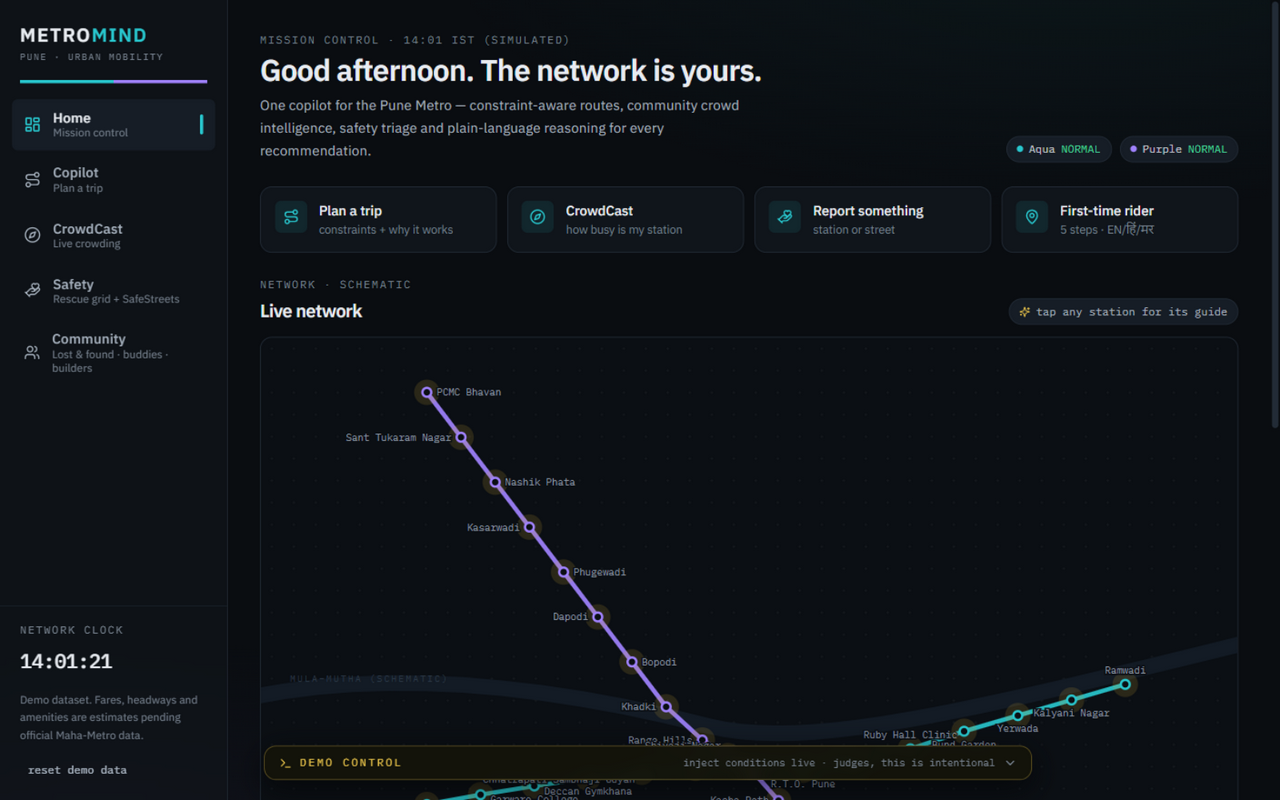
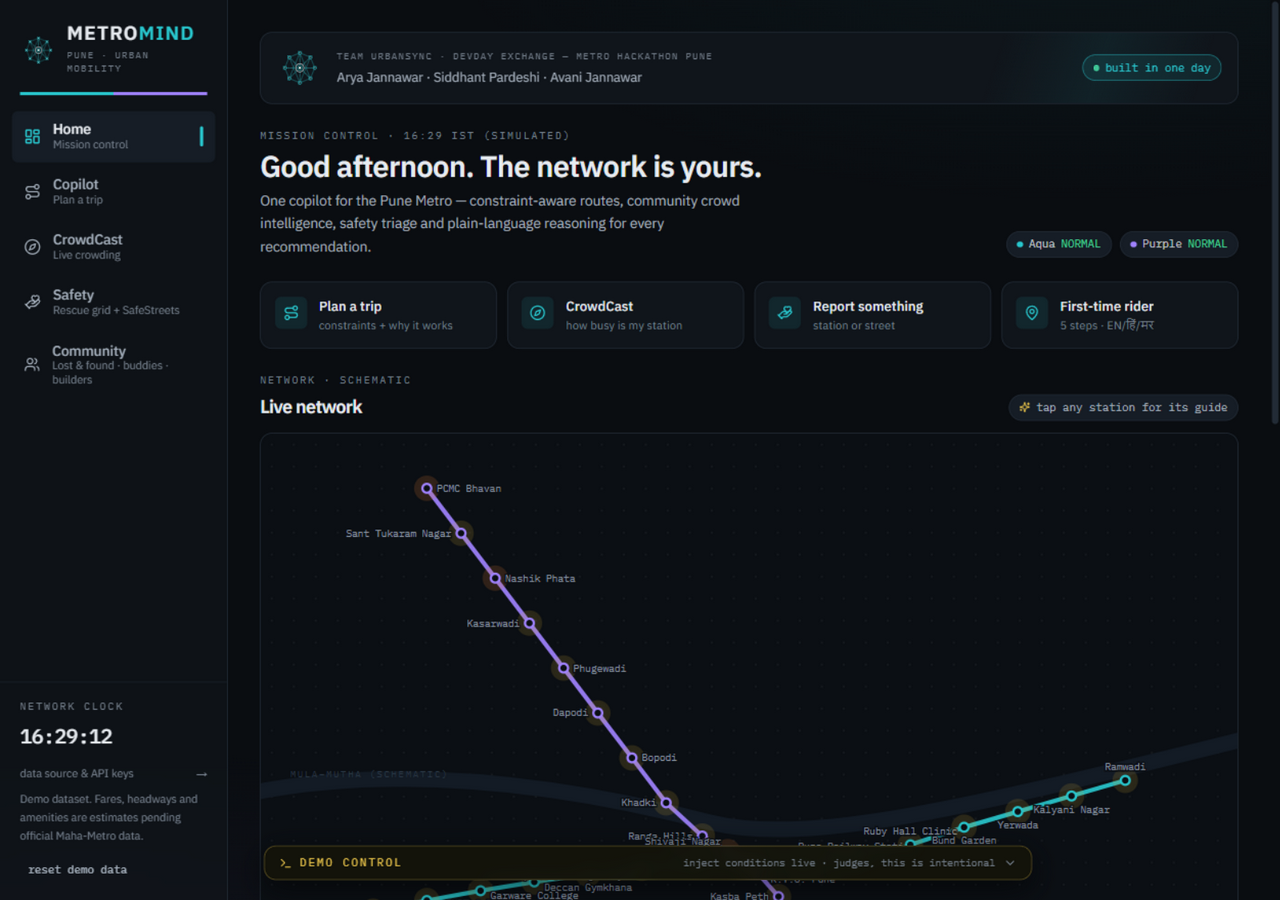
docs: UrbanSync team section, live-data guide, refreshed screenshots

diff --git a/DECISIONS.md b/DECISIONS.md
@@ -1,12 +1,11 @@
 # DECISIONS.md
 
-Every non-obvious decision and deviation from the SUPER_PROMPT spec, in build order.
+The non-obvious calls we made while building MetroMind in one day, in build order.
 
 ## Environment
 
-- **D1.** Node v24.11.1, npm 11.6.2, git 2.54 (Windows/OneDrive). `gh` CLI absent → the final
-  push uses `git push` over HTTPS with the user's stored credential manager auth to
-  `github.com/Arya-jannawar/MetroMind`.
+- **D1.** Built and verified on Windows (Node v24, npm 11, git 2.54). Pushes go over HTTPS with
+  the team's stored credential-manager auth to `github.com/Arya-jannawar/MetroMind`.
 - **D2.** Dependencies pinned: Next 15.1.6 + React 19 + Tailwind 3.4 + Zustand 5 + vitest 2.1 +
   ESLint 8 (classic `.eslintrc` — ESLint 9 flat config was not worth the fight inside the
   one-day scope).
@@ -14,17 +13,17 @@ Every non-obvious decision and deviation from the SUPER_PROMPT spec, in build or
 ## Data core
 
 - **D3.** Station lists verified against Wikipedia (Aqua/Purple line articles) + punemetrorail.org
-  instead of the spec's simplified APPENDIX A anchors: Aqua = Vanaz→Ramwadi (16), Purple =
-  PCMC Bhavan→Swargate (14), single interchange **District Court**. 29 unique stations, all
-  coordinates approximate, whole file labelled `DEMO DATASET`.
-- **D4.** Fare kept at spec model: ₹10 + ₹2/stop capped ₹35, labelled ESTIMATE. Headway 10 min,
-  service 06:00–22:30, entry 3 min, exit 2 min, interchange 4 min — all DEMO ASSUMPTIONs.
+  instead of a hand-typed anchor list: Aqua = Vanaz→Ramwadi (16), Purple = PCMC Bhavan→Swargate
+  (14), single interchange **District Court**. 29 unique stations, all coordinates approximate,
+  whole file labelled `DEMO DATASET`.
+- **D4.** Fare model: ₹10 + ₹2/stop capped ₹35, labelled ESTIMATE. Headway 10 min, service
+  06:00–22:30, entry 3 min, exit 2 min, interchange 4 min — all DEMO ASSUMPTIONs.
 
 ## Engine
 
 - **D5.** The Phase-1 network is a **tree** (two lines, one interchange): there is exactly one
-  physical path between any two stations. The spec's "3 distinct route cards" is therefore
-  delivered as three *departure-timing strategies* rather than three paths:
+  physical path between any two stations. "3 distinct route cards" is therefore delivered as
+  three *departure-timing strategies* rather than three paths:
   **Fastest** (leave now) / **Calmer ride** (shift ≤2 headways to the lightest crowd window) /
   **Just-in-time** (arrive exactly at the deadline, or take the next train with no deadline).
   Each is deduped by (path, departure) signature, so off-peak single-card results are shown
@@ -42,10 +41,9 @@ Every non-obvious decision and deviation from the SUPER_PROMPT spec, in build or
   routing departure/arrival math. First implementation tied both to sim time and broke freshness
   whenever a preset was active — caught in browser verification, fixed, and left as a documented
   invariant.
-- **D9.** The killer query presets the sim clock to **08:30 and the deadline to 09:30** (spec
-  said 9:00): a 10-stop ride is ~36 min, so "arrive 9:00" is unreachable the moment a demo
-  starts after 08:24. 09:30 gives ~60 min of drift-proof demo runway. Logged as an accepted,
-  documented deviation.
+- **D9.** The killer query presets the sim clock to **08:30 and the deadline to 09:30**: a
+  10-stop ride is ~36 min, so "arrive 9:00" is unreachable the moment a demo starts after 08:24.
+  09:30 gives ~60 min of drift-proof demo runway.
 - **D10.** Time accounting: `departMin` is the station-entry time; the first leg boards after
   the 3-min entry+security buffer, and arrival includes the 2-min exit buffer — card timelines,
   why-lines and the trade-off table all agree on one clock.
@@ -54,34 +52,57 @@ Every non-obvious decision and deviation from the SUPER_PROMPT spec, in build or
 
 - **D11.** Design language: IBM Plex Sans + IBM Plex Mono, near-black surfaces, hairline
   borders, mono uppercase micro-labels, a dual line-colour stripe motif, and a hand-drawn SVG
-  schematic map (per spec: no map API keys, Leaflet skipped entirely). Colours are literal hex
-  in the Tailwind config because Tailwind 3 cannot apply alpha modifiers to `var()`-based colors.
+  schematic map (no map API keys, Leaflet skipped entirely). Colours are literal hex in the
+  Tailwind config because Tailwind 3 cannot apply alpha modifiers to `var()`-based colors.
 - **D12.** Nav = bottom tab bar on mobile (Home + 5 modules), left rail on desktop; SafeStreets
   lives inside the Safety module as a segmented second view (5-tab limit), Community carries the
-  ConnectIQ builder matcher as its third segment.
+  ConnectIQ builder matcher as its third segment. The Integrations page is deliberately *outside*
+  the tab bar — it is an operator surface, not a commuter surface — and is linked from the
+  sidebar footer and Demo Control.
 - **D13.** All module state persists to localStorage under `metromind-*` keys; seeds are marked
   `source: "seed"` and render as "sample" in feeds; **reset demo** wipes every key and reloads.
 - **D14.** OG image is a **static PNG generated by `scripts/make-og.mjs`** (pure Node zlib, no
   deps) because `@vercel/og` fails to prerender on Windows paths containing spaces. The script
   had a fun bug: two parallel stripes → divide-by-zero → infinite loop; fixed with a
-  non-parallel second stripe and a parallel-guard.
+  non-parallel second stripe and a parallel-guard. Regenerated for Team UrbanSync branding with
+  the network mark drawn in raster code.
+- **D15.** The UrbanSync mark is one piece of geometry in three renderers: a React component
+  (`components/UrbanSyncLogo.tsx`) animated with pure CSS (no JS, no hydration cost), a
+  standalone animated SVG for the README (`docs/assets/`), and a static raster for the OG image
+  and favicons. Same octagon coordinates everywhere.
 
 ## AI layer
 
-- **D15.** Single route `/api/copilot`. Key read server-side from `ZAI_API_KEY`
-  (`ZAI_BASE_URL` default `https://api.z.ai/api/paas/v4`, model default `glm-4.6`). Hard 3 s
+- **D16.** Single route `/api/copilot`, provider-agnostic: `OPENAI_API_KEY` or `ZAI_API_KEY`
+  (both speak the OpenAI chat-completions wire format; `AI_PROVIDER` forces a choice, OpenAI
+  wins by default). Key read server-side only (`*_BASE_URL` / `*_MODEL` overridable). Hard 3 s
   abort, strict-JSON response validation, length cap on generated whys, instant template
   fallback on any failure, plus a user-facing *ai: forced offline* toggle in Demo Control. The
   demo is complete with the key absent — verified via the API returning `"source": "template"`.
 
-## Process
+## Live-data integration
 
-- **D16.** Verification loop: 28 vitest tests green, `next build` clean, then full browser
-  walkthrough (desktop + 390 px) with a console-error collector — **zero console errors** and
-  zero horizontal scroll on all pages after two fixes (grid `min-w-0`, section header wrap).
-  Screenshots captured into `docs/screenshots/` for this README.
-- **D17.** Git history was committed at the end in logical groups (scaffold → data → engine →
-  tests → app → AI → docs) rather than per phase — a single long build session, conventional
-  commits, no secrets, no force-push.
-- **D18.** Not done (honest scope): production deployment to Vercel (needs the user's account
-  auth); PWA icons are SVG (`any` + `maskable`); `next-env.d.ts` is gitignored as generated.
+- **D17.** The whole app reads network conditions through one narrow seam (line delays + station
+  crowd boosts into the live-state store). The live feed layer (`lib/livefeed.ts`) normalizes any
+  JSON feed into that seam: station matching by id/name with slugified aliases, crowd values
+  accepted as 0–1 or percentages, delays clamped, unmatched rows skipped — never guessed. A
+  GTFS-RT source only needs a converter to this JSON contract.
+- **D18.** Feed fetches run server-side (`/api/live`, 4 s timeout): no CORS problems, the API
+  key can stay in env vars (`LIVE_FEED_URL`, `LIVE_API_KEY`), and the browser never talks to the
+  upstream directly. For field pilots, the Integrations page can configure an endpoint + key at
+  runtime (kept in localStorage, labelled as pilot-only).
+- **D19.** While a live feed is connected it *replaces* conditions on every poll (the feed is
+  the source of truth); Demo Control injections are demo-mode tools. Switching back to demo
+  clears live-injected conditions. Every simulated surface still carries its DEMO DATA label —
+  live mode surfaces its own "live feed" badge instead.
+
+## Verification
+
+- **D20.** Verification loop: vitest suite green (engine + live-feed normalization), `next
+  build` clean, then a full browser walkthrough (desktop + 390 px) with a console-error
+  collector — zero console errors and zero horizontal scroll on all pages. Screenshots captured
+  into `docs/screenshots/`.
+- **D21.** Not done (honest scope): production deployment to Vercel (needs a Vercel account
+  login); a GTFS-RT converter service and authority agreements (the JSON contract + docs are
+  ready for one); PWA icons are SVG (`any` + `maskable`); `next-env.d.ts` is gitignored as
+  generated.

diff --git a/README.md b/README.md
@@ -1,3 +1,7 @@
+<p align="center">
+  <img src="docs/assets/banner.svg" alt="MetroMind — an AI commute copilot for the Pune Metro, by Team UrbanSync" width="100%" />
+</p>
+
 # MetroMind — the Pune Metro AI super-app
 
 **Tell it your goal. Read the reasoning.** MetroMind is a commute copilot for the Pune Metro:
@@ -5,9 +9,9 @@ it plans constraint-aware journeys across both lines, reasons over community cro
 live disruptions, explains every recommendation in plain language, and pairs it with crowd
 intelligence, safety triage, accessibility guidance and a commuter board.
 
-> Built for **Codex Dayline** (one-day AI build sprint on the Pune Metro) — **Urban Mobility**
-> track, with Civic & Community elements (SafeStreets, ConnectIQ-style builder matching).
-> Status: **local-runnable demo**. Deploy: `npx vercel` (see below) — no API key required to run.
+> Built for **OpenAI DevDay Exchange — Metro Hackathon Pune** (Codex Dayline, one-day build
+> sprint on the metro), **Urban Mobility** track. Status: **local-runnable demo** that upgrades
+> to a live feed without code changes (see [Going live](#going-live-operators--authorities)).
 
 ---
 
@@ -46,22 +50,68 @@ More in `docs/screenshots/` (safety triage, community builders, guide).
 | **M3 · Rescue Grid + SafeStreets** | `/safety` | Incident form → control-room queue ranked by triage score (severity, people affected, footfall, recency) with recommended actions; street-hazard risk map + summary | Submit an incident; watch the queue re-rank and explain itself |
 | **M4 · Station Guide / AccessWay** | `/guide`, `/station/[id]` | 5-step first-rider guide in EN/हिंदी/मराठी, per-station pages (exits, parking, accessibility, first/last mile, demo departures board, crowding now) | Tap any station on any map |
 | **M5 · Community Connect** | `/community` | Lost & Found board with search, travel-buddy matcher with *why matched*, ConnectIQ-style builder matching, station events | Post an item; toggle skills in Builders and watch match scores |
+| **Operations · Integrations** | `/integrations` | Connect a live metro feed (endpoint + API key), poll interval, connection test, feed contract; AI key configuration | Paste an endpoint → *Test connection* → flip to *Live feed* |
+
+## Going live (operators & authorities)
+
+MetroMind ships with a deterministic demo dataset, but every module reads network conditions
+through **one narrow seam**: line delays and per-station crowd levels in a shared live-state
+store. The integration layer (`lib/livefeed.ts`, unit-tested) normalizes any JSON feed into
+that seam — station matching by id or name, crowd as 0–1 or %, delays clamped, unmatched rows
+skipped and counted, never guessed.
+
+To run on real conditions:
+
+1. Serve the [feed contract](#the-feed-contract) from a GTFS-RT converter, an authority
+   gateway, or any ops JSON endpoint.
+2. Set `LIVE_FEED_URL` + `LIVE_API_KEY` as server env vars (`.env.example` documents both), **or**
+   configure an endpoint + key at runtime on `/integrations` for field pilots.
+3. Flip to *Live feed*. The app polls server-side (no CORS, 4 s timeout), pushes normalized
+   delays + crowd into the live store, and every surface — Copilot, CrowdCast, Safety, the map —
+   re-reasons on live data with a **live feed** badge replacing the demo badge.
+
+Failures degrade gracefully: a slow or erroring feed leaves the last known state up, records
+the error on the Integrations page, and the demo dataset remains the offline default.
+
+### The feed contract
+
+```json
+{
+  "updatedAt": "2026-10-24T09:00:00+05:30",
+  "lines": [
+    { "id": "aqua",   "status": "delay", "delayMin": 12 },
+    { "id": "purple", "status": "normal" }
+  ],
+  "stations": [
+    { "id": "shivaji-nagar", "crowd": 0.72 },
+    { "name": "Deccan Gymkhana", "crowd": 0.31 }
+  ]
+}
+```
+
+`"Shivaji Nagar"`, `"shivaji-nagar"` and `"SHIVAJI NAGAR"` all resolve to the same station;
+`crowd` values above 1 are read as percentages. The full normalization rules and the honest
+scope note (what "production ready" does and does not include) are on `/integrations` and in
+[DECISIONS.md](DECISIONS.md).
 
 ## Architecture
 
 ```mermaid
 flowchart LR
   A[data/pune-metro.json + seeds<br/>DEMO DATASET] --> B[lib/ engine<br/>graph · routing · fare · crowd · triage · explain]
-  B --> C[Zustand stores<br/>live · crowd · rescue · community · safe · prefs<br/>localStorage-persisted]
-  C --> D[App Router pages<br/>home · copilot · crowd · safety · guide · community · station]
+  B --> C[Zustand stores<br/>live · crowd · rescue · community · safe · prefs · integrations<br/>localStorage-persisted]
+  C --> D[App Router pages<br/>home · copilot · crowd · safety · guide · community · station · integrations]
   B --> E[/api/copilot<br/>GLM via z.ai · 3s timeout]
   E -->|failure / no key| F[template explanations<br/>offline AI mode]
   E --> D
   G[Demo Control bar<br/>inject delays · spikes · sim clock] --> C
+  H[/api/live<br/>LIVE_FEED_URL + LIVE_API_KEY<br/>4s timeout · normalization] -->|delays + crowd| C
+  I[Integrations page<br/>pilot endpoint + key · poll interval] --> H
 ```
 
-The engine in `lib/` is pure TypeScript with no framework imports — 28 vitest tests cover
-routing constraints, fare capping, crowd decay, triage ranking and persistence.
+The engine in `lib/` is pure TypeScript with no framework imports — 34 vitest tests cover
+routing constraints, fare capping, crowd decay, triage ranking, live-feed normalization and
+persistence.
 
 ## Data disclaimer
 
@@ -70,27 +120,31 @@ Purple (PCMC Bhavan ↔ Swargate, 14 stations) lines with the single District Co
 compiled from public sources (punemetrorail.org, Wikipedia) on 2026-10-24. Fares (₹10 + ₹2/stop,
 cap ₹35), the 10-minute headway, the 06:00–22:30 service window, amenities and coordinates are
 **estimates** and labelled as such in the UI. Crowd reports and incidents are simulated seeds
-plus local-only user input. Nothing here is a real-time Maha-Metro feed.
+plus local-only user input. Nothing here is a real-time Maha-Metro feed — until you connect one.
 
 ## Quickstart
 
 ```bash
 npm install
 npm run dev        # http://localhost:3000
-npm test           # 28 engine tests (vitest)
+npm test           # 34 engine + integration tests (vitest)
 npm run build && npm start   # production build
 ```
 
 Optional AI upgrade — the app is fully functional without it:
 
 ```bash
-cp .env.example .env.local   # set ZAI_API_KEY (z.ai / GLM, server-side only)
+cp .env.example .env.local   # set OPENAI_API_KEY or ZAI_API_KEY (server-side only)
 ```
 
-With no key (or after 3s / on any error) every AI call falls back instantly to deterministic
-rule-based explanations, badged *offline AI mode* in the UI.
+Explanations upgrade to model-written whys when a key is present (OpenAI or z.ai/GLM — both
+speak the same wire format, `AI_PROVIDER` forces a choice). With no key (or after 3s / on any
+error) every AI call falls back instantly to deterministic rule-based explanations, badged
+*offline AI mode* in the UI. Note the AI key shapes the *wording* — live network data comes
+from the feed integration above.
 
-Deploy on Vercel: import the repo, add `ZAI_API_KEY` as an env var, deploy. `npx vercel` works too.
+Deploy on Vercel: import the repo, add `OPENAI_API_KEY` or `ZAI_API_KEY` (+ `LIVE_FEED_URL` /
+`LIVE_API_KEY` when going live) as env vars, deploy. `npx vercel` works too.
 
 ## 90-second demo script
 
@@ -109,9 +163,20 @@ Deploy on Vercel: import the repo, add `ZAI_API_KEY` as an env var, deploy. `npx
 
 ## Roadmap
 
-Real GTFS/Maha-Metro feed integration · AFC-gate-based crowding · authority dashboards for the
-rescue grid · full HI/MR app-wide i18n · PWA offline trip caching · multimodal (PMPML/BRTS)
-routing · photo verification for SafeStreets.
+GTFS-RT converter service (the JSON contract is ready) · AFC-gate-based crowding · authority
+dashboards for the rescue grid · full HI/MR app-wide i18n · PWA offline trip caching ·
+multimodal (PMPML/BRTS) routing · photo verification for SafeStreets.
+
+## Team UrbanSync
+
+Built in one day at **OpenAI DevDay Exchange — Metro Hackathon Pune**, on and around the
+Aqua Line, by:
+
+**Arya Jannawar** · **Siddhant Pardeshi** · **Avani Jannawar**
+
+| On stage at DevDay Exchange | Wristbands on, mid-sprint |
+|---|---|
+| <img src="docs/assets/team-stage.jpg" alt="Team UrbanSync on stage at the DevDay Exchange community event" width="420" /> | <img src="docs/assets/wristbands.jpg" alt="Team UrbanSync wristbands during the build" width="420" /> |
 
 ## License
 
